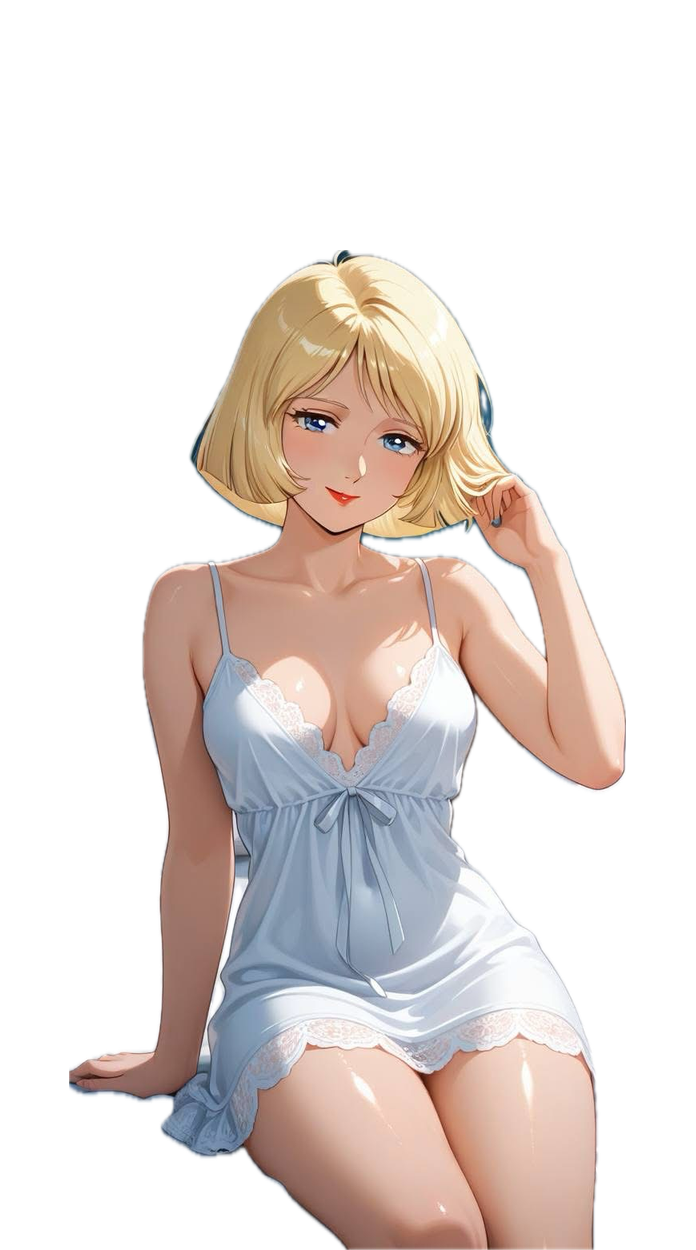
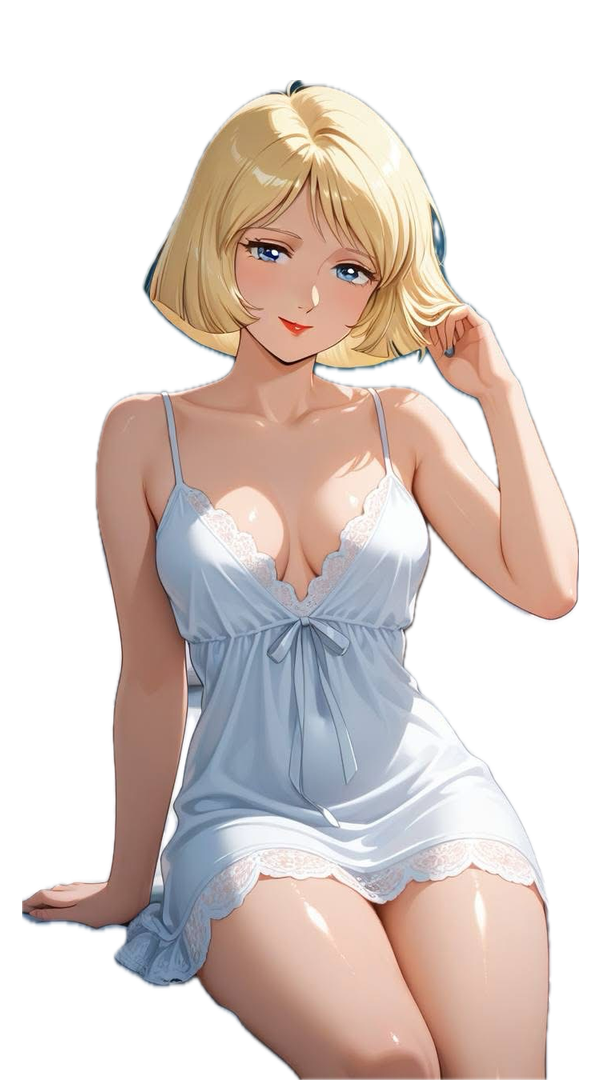
Add customer backups and refine Seira display

diff --git a/server.js b/server.js
@@ -34,6 +34,8 @@ const customerDataPath = resolve(
 
 const cookieName = "bar_companion_session";
 const maxBodyBytes = 8_192;
+const maxBackupBodyBytes = 512 * 1_024;
+const maximumBackupCustomers = 1_000;
 const failedAttempts = new Map();
 const attemptWindowMs = 10 * 60 * 1_000;
 const maximumAttempts = 5;
@@ -87,6 +89,56 @@ function writeCustomers(customers) {
     { mode: 0o600 }
   );
   renameSync(temporaryPath, customerDataPath);
+}
+
+function normalizeStoredDate(value, fallback) {
+  const date = new Date(value);
+  return typeof value === "string" && !Number.isNaN(date.getTime()) ?
+    date.toISOString() : fallback;
+}
+
+function normalizeCustomerBackup(value) {
+  if (
+    !value ||
+    typeof value !== "object" ||
+    value.version !== 1 ||
+    !Array.isArray(value.customers) ||
+    value.customers.length > maximumBackupCustomers
+  ) {
+    throw new Error("バックアップファイルの形式または件数が正しくありません。");
+  }
+
+  const numbers = new Set();
+  const now = new Date().toISOString();
+  const customers = value.customers.map((source, index) => {
+    const number = normalizeCustomerNumber(source?.number);
+    const name = normalizeCustomerName(source?.name);
+    const birthday = normalizeBirthday(source?.birthday);
+
+    if (!number || !name || birthday === null) {
+      throw new Error(`${index + 1}件目のお客様情報が正しくありません。`);
+    }
+    if (numbers.has(number)) {
+      throw new Error(`お客様番号${number}が重複しています。`);
+    }
+    numbers.add(number);
+
+    const createdAt = normalizeStoredDate(source.createdAt, now);
+    const updatedAt = normalizeStoredDate(source.updatedAt, createdAt);
+    return {
+      number,
+      name,
+      favoriteDrink: normalizeProfileValue(source.favoriteDrink),
+      birthday,
+      personality: normalizeProfileValue(source.personality ?? source.traits),
+      attribute: normalizeProfileValue(source.attribute),
+      lastVisitAt: normalizeStoredDate(source.lastVisitAt, createdAt),
+      createdAt,
+      updatedAt
+    };
+  });
+
+  return customers;
 }
 
 function normalizeCustomerNumber(value) {
@@ -310,6 +362,48 @@ function handleCustomerList(request, response) {
   sendJson(response, 200, { customers });
 }
 
+function handleCustomerBackupDownload(request, response) {
+  if (!hasAdminAccess(request)) {
+    sendJson(response, 401, { error: "管理PINが必要です。" });
+    return;
+  }
+
+  const date = new Date().toISOString().slice(0, 10);
+  const body = `${JSON.stringify({
+    version: 1,
+    exportedAt: new Date().toISOString(),
+    customers: readCustomers()
+  }, null, 2)}\n`;
+  response.writeHead(200, {
+    "Content-Type": "application/json; charset=utf-8",
+    "Content-Disposition": `attachment; filename="bar-companion-customers-${date}.json"`,
+    "Content-Length": Buffer.byteLength(body)
+  });
+  response.end(body);
+}
+
+async function handleCustomerBackupUpload(request, response) {
+  if (!hasAdminAccess(request)) {
+    sendJson(response, 401, { error: "管理PINが必要です。" });
+    return;
+  }
+
+  try {
+    const body = await readJsonBody(request, maxBackupBodyBytes);
+    const customers = normalizeCustomerBackup(body);
+    writeCustomers(customers);
+    sendJson(response, 200, {
+      count: customers.length,
+      message: `${customers.length}件のお客様情報を復元しました。`
+    });
+  } catch (error) {
+    console.error("Customer backup restore error:", error.message);
+    sendJson(response, 400, {
+      error: error.message || "バックアップを復元できませんでした。"
+    });
+  }
+}
+
 function handleCustomerDeletion(request, response, pathname) {
   if (!hasAdminAccess(request)) {
     sendJson(response, 401, { error: "管理PINが必要です。" });
@@ -449,8 +543,8 @@ function sanitizeReply(text, language) {
     .slice(0, 240);
 }
 
-async function readJsonBody(request) {
-  const rawBody = await readRequestBody(request);
+async function readJsonBody(request, maximumBytes = maxBodyBytes) {
+  const rawBody = await readRequestBody(request, maximumBytes);
 
   try {
     return JSON.parse(rawBody);
@@ -745,7 +839,7 @@ function recordFailedAttempt(address) {
   record.count += 1;
 }
 
-function readRequestBody(request) {
+function readRequestBody(request, maximumBytes = maxBodyBytes) {
   return new Promise((resolveBody, rejectBody) => {
     const chunks = [];
     let totalBytes = 0;
@@ -753,7 +847,7 @@ function readRequestBody(request) {
     request.on("data", (chunk) => {
       totalBytes += chunk.length;
 
-      if (totalBytes > maxBodyBytes) {
+      if (totalBytes > maximumBytes) {
         rejectBody(new Error("Request body is too large."));
         request.destroy();
         return;
@@ -932,6 +1026,22 @@ async function handleRequest(request, response) {
 
   if (request.method === "GET" && pathname === "/api/admin/customers") {
     handleCustomerList(request, response);
+    return;
+  }
+
+  if (
+    request.method === "GET" &&
+    pathname === "/api/admin/customers/backup"
+  ) {
+    handleCustomerBackupDownload(request, response);
+    return;
+  }
+
+  if (
+    request.method === "POST" &&
+    pathname === "/api/admin/customers/backup"
+  ) {
+    await handleCustomerBackupUpload(request, response);
     return;
   }
 

diff --git a/app.js b/app.js
@@ -51,6 +51,9 @@ const adminPinCancel = document.querySelector("#admin-pin-cancel");
 const customerList = document.querySelector("#customer-list");
 const customerListStatus = document.querySelector("#customer-list-status");
 const customerListRefresh = document.querySelector("#customer-list-refresh");
+const customerBackupDownload = document.querySelector("#customer-backup-download");
+const customerBackupUpload = document.querySelector("#customer-backup-upload");
+const customerBackupFile = document.querySelector("#customer-backup-file");
 
 const motionStorageKey = "bar-companion-motion-paused";
 const languageStorageKey = "bar-companion-speech-language";
@@ -277,6 +280,73 @@ async function loadCustomerList() {
     }
   } catch (error) {
     customerListStatus.textContent = error.message;
+  }
+}
+
+async function downloadCustomerBackup() {
+  customerListStatus.textContent = "バックアップを作成しています…";
+
+  try {
+    const response = await fetch("/api/admin/customers/backup", {
+      headers: { "X-Admin-Pin": activeAdminPin }
+    });
+    if (!response.ok) {
+      const body = await response.json();
+      throw new Error(body.error ?? "バックアップを作成できませんでした。");
+    }
+
+    const blob = await response.blob();
+    const objectUrl = URL.createObjectURL(blob);
+    const link = document.createElement("a");
+    const date = new Date().toISOString().slice(0, 10);
+    link.href = objectUrl;
+    link.download = `bar-companion-customers-${date}.json`;
+    document.body.append(link);
+    link.click();
+    link.remove();
+    URL.revokeObjectURL(objectUrl);
+    customerListStatus.textContent = "バックアップをダウンロードしました";
+  } catch (error) {
+    customerListStatus.textContent = error.message;
+  }
+}
+
+async function restoreCustomerBackup(file) {
+  if (!file) {
+    return;
+  }
+  if (file.size > 512 * 1_024) {
+    customerListStatus.textContent = "バックアップファイルが大きすぎます。";
+    return;
+  }
+
+  try {
+    const text = await file.text();
+    const backup = JSON.parse(text);
+    const count = Array.isArray(backup.customers) ? backup.customers.length : null;
+    if (count === null) {
+      throw new Error("バックアップファイルの形式が正しくありません。");
+    }
+    if (!window.confirm(
+      `現在のお客様情報を、バックアップの${count}件で置き換えますか？`
+    )) {
+      return;
+    }
+
+    customerListStatus.textContent = "バックアップを復元しています…";
+    const body = await customerRequest("/api/admin/customers/backup", {
+      method: "POST",
+      headers: { "X-Admin-Pin": activeAdminPin },
+      body: text
+    });
+    setCurrentCustomer(null);
+    await loadCustomerList();
+    customerListStatus.textContent = body.message;
+  } catch (error) {
+    customerListStatus.textContent = error instanceof SyntaxError ?
+      "JSONファイルを読み込めませんでした。" : error.message;
+  } finally {
+    customerBackupFile.value = "";
   }
 }
 
@@ -1502,7 +1572,7 @@ function startListening() {
 }
 
 function scheduleAutomaticListening(
-  delay = isAppleMobileBrowser ? 1_800 : 700
+  delay = isAppleMobileBrowser ? 1_800 : 1_200
 ) {
   clearAutomaticRestartTimer();
 
@@ -1517,6 +1587,7 @@ function scheduleAutomaticListening(
 
   automaticRestartTimer = window.setTimeout(() => {
     automaticRestartTimer = null;
+    initializeSpeechRecognition();
     startListening();
   }, delay);
 }
@@ -1618,6 +1689,9 @@ function preloadImage(source) {
 async function displayCharacter(character, saveSelection = true) {
   const backgroundSource = character.backgroundImage ?? character.image;
   const foregroundSource = character.foregroundImage ?? null;
+  const foregroundFit = character.foregroundFit === "contain" ?
+    "contain" : "cover";
+  const foregroundScale = Number(character.foregroundScale);
   const reactionSources = Array.isArray(character.reactions) ?
     character.reactions.map((reaction) => reaction.image).filter(Boolean) : [];
   const characterBlinkSources = blinkSources(character);
@@ -1653,6 +1727,12 @@ async function displayCharacter(character, saveSelection = true) {
 
     characterBackground.src = backgroundSource;
     characterImage.hidden = !foregroundSource;
+    characterImage.style.setProperty("--character-fit", foregroundFit);
+    characterImage.style.setProperty(
+      "--character-scale",
+      Number.isFinite(foregroundScale) && foregroundScale > 0 ?
+        String(foregroundScale) : "1"
+    );
 
     if (foregroundSource) {
       characterImage.src = foregroundSource;
@@ -1800,6 +1880,11 @@ adminPinCancel.addEventListener("click", () => {
   adminPinOverlay.hidden = true;
 });
 customerListRefresh.addEventListener("click", loadCustomerList);
+customerBackupDownload.addEventListener("click", downloadCustomerBackup);
+customerBackupUpload.addEventListener("click", () => customerBackupFile.click());
+customerBackupFile.addEventListener("change", () => {
+  void restoreCustomerBackup(customerBackupFile.files[0]);
+});
 customerList.addEventListener("click", async (event) => {
   const button = event.target.closest(".customer-delete-button");
   if (!button) {

diff --git a/index.html b/index.html
@@ -9,7 +9,7 @@
     <meta name="theme-color" content="#1b1118">
     <title>Bar Companion</title>
     <link rel="stylesheet" href="styles.css">
-    <script src="app.js?v=20260924-5" type="module"></script>
+    <script src="app.js?v=20260925-1" type="module"></script>
   </head>
 
   <body class="character-loading">
@@ -279,6 +279,20 @@
             <p class="character-status" id="customer-list-status" aria-live="polite">
               お客様情報を読み込みます
             </p>
+            <div class="customer-backup-controls">
+              <button id="customer-backup-download" type="button">
+                バックアップをダウンロード
+              </button>
+              <button id="customer-backup-upload" type="button">
+                バックアップから復元
+              </button>
+              <input
+                id="customer-backup-file"
+                type="file"
+                accept="application/json,.json"
+                hidden
+              >
+            </div>
             <div class="customer-list" id="customer-list"></div>
           </section>
 

diff --git a/styles.css b/styles.css
@@ -345,9 +345,11 @@ button {
   z-index: 0;
 }
 
-.character-foreground {
+.character-frame .character-foreground {
   z-index: 1;
+  object-fit: var(--character-fit, cover);
   animation: character-idle 7s ease-in-out infinite;
+  scale: var(--character-scale, 1);
   transform-origin: 50% 82%;
   will-change: transform;
 }
@@ -580,6 +582,20 @@ button {
   display: grid;
   gap: 10px;
   margin-top: 12px;
+}
+
+.customer-backup-controls {
+  display: grid;
+  grid-template-columns: 1fr 1fr;
+  gap: 8px;
+  margin-top: 12px;
+}
+
+.customer-backup-controls button {
+  min-height: 44px;
+  padding: 8px 10px;
+  background: rgba(255, 255, 255, 0.09);
+  font-size: 0.76rem;
 }
 
 .customer-list-item {
